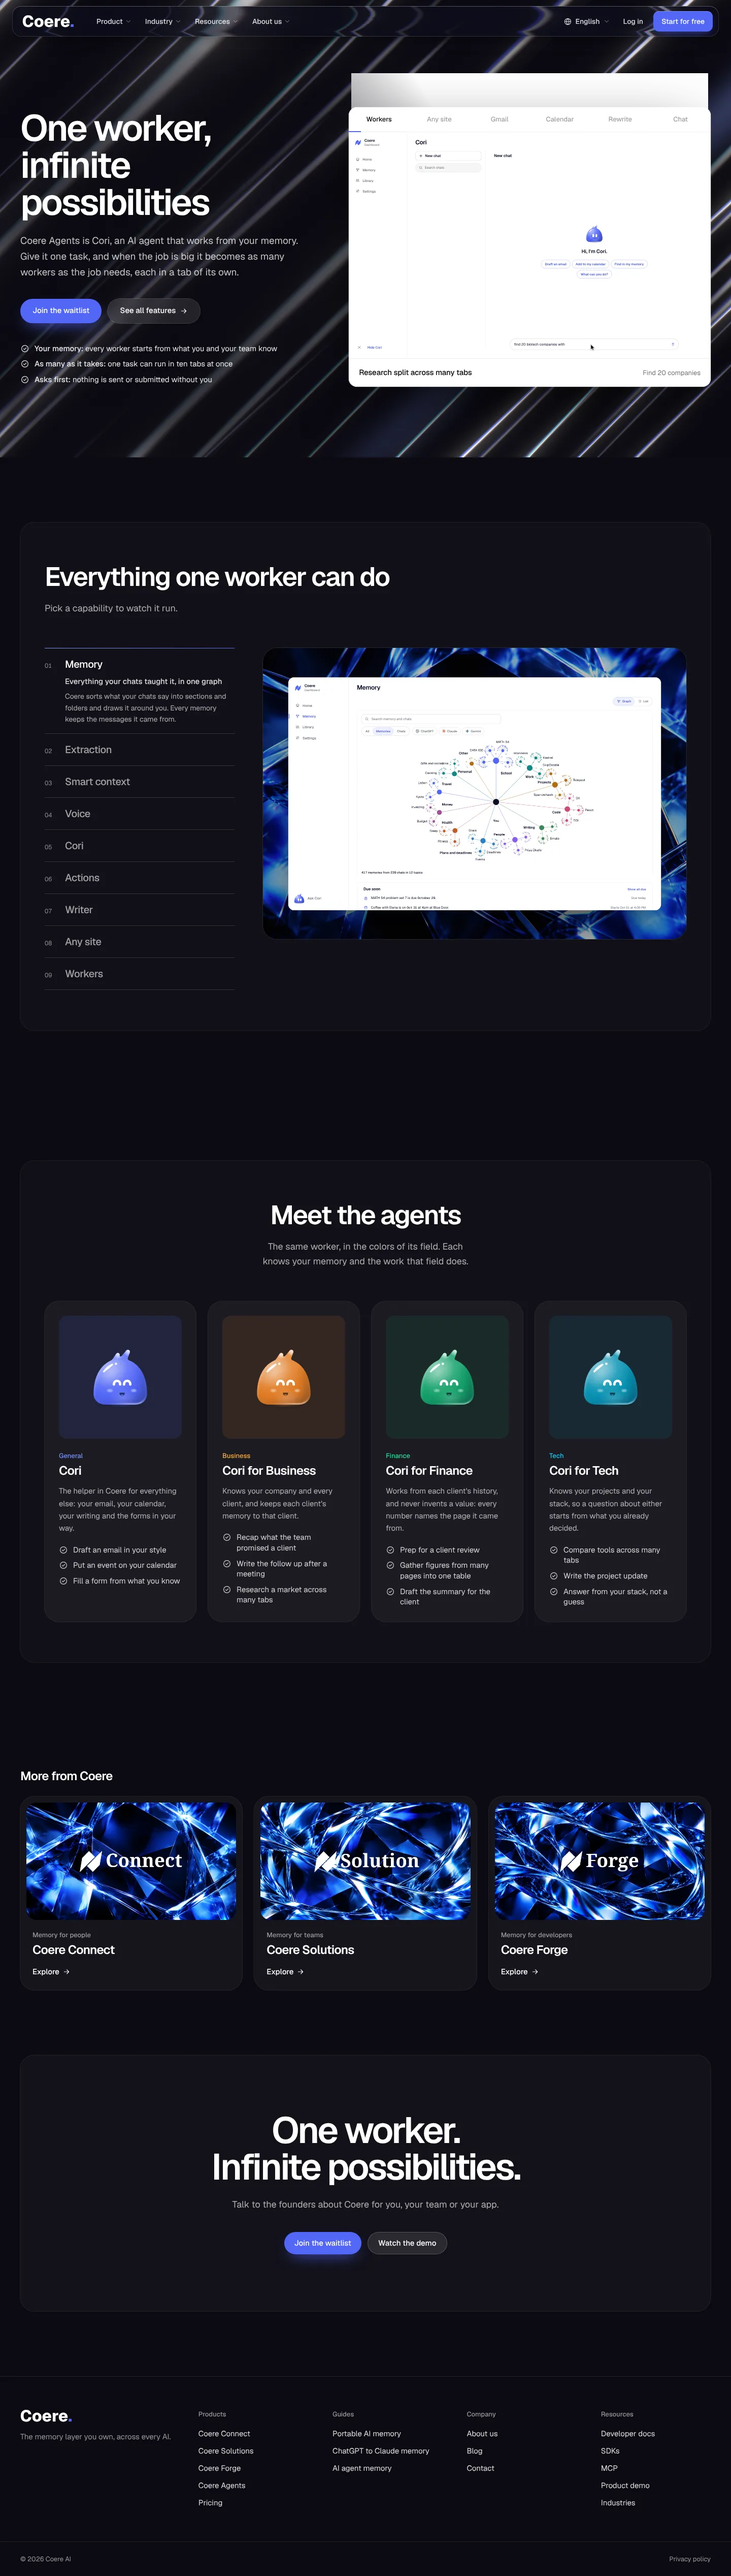
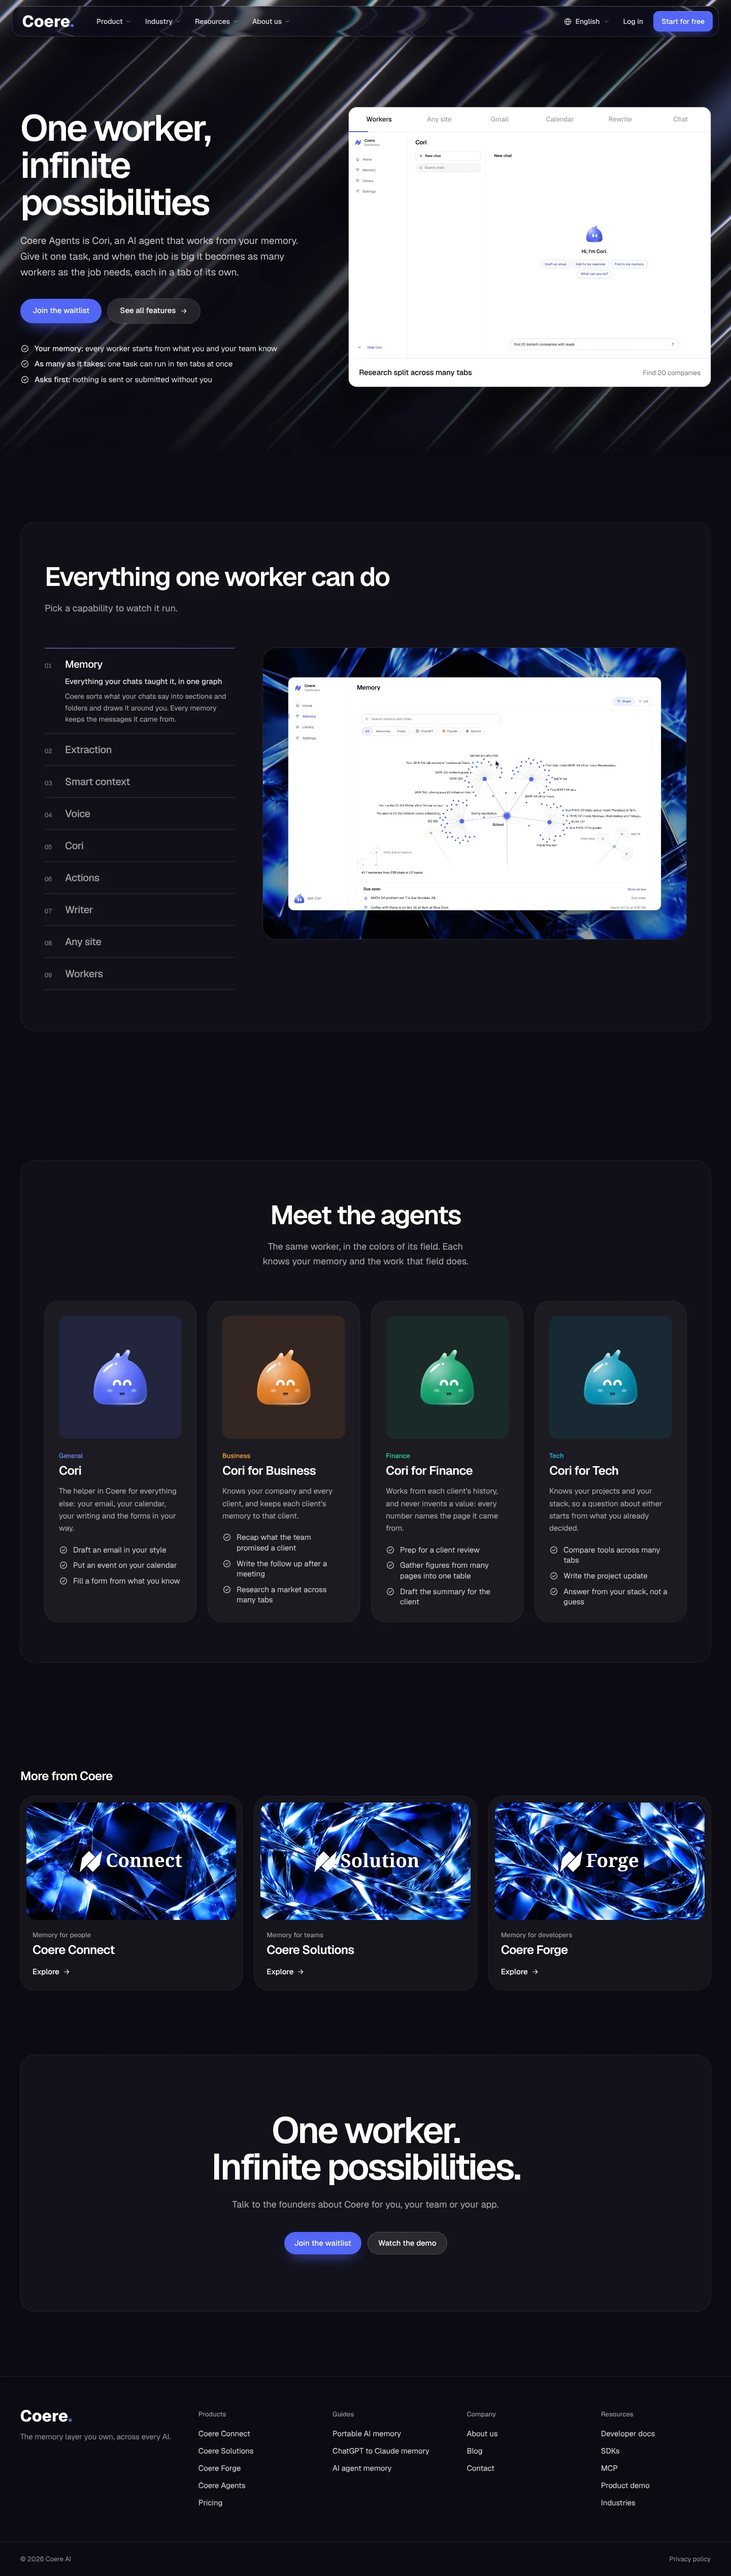
Retake the Agents picture with the live demo in its hero
The hero now plays each part of Coere Agents in a white app window, so the README picture and its caption show that.

Claude-Session: https://claude.ai/code/session_01Ur6uqNCXa3ecJ23BnM9D9o

diff --git a/docs/screenshots/site/README.md b/docs/screenshots/site/README.md
@@ -28,7 +28,7 @@ The whole page, dark from the hero to the footer: [home.webp](home.webp).
 | | |
 |---|---|
 | <img src="product-connect.webp" alt="The Coere Connect page from its hero down: Your memory, across every AI on near black, with flowing bands of Coere blue and white drawn in small dithered square pixels behind the live app, then, dark to the footer, features by tab, the same chat with 97.7% fewer tokens, everything in Coere Connect, why people choose it and the other products" /><br /><sub>Coere Connect, dark to its end like its hero</sub> | <img src="product-solutions.webp" alt="The Coere Solutions page from its hero down: the hero on a dark LED wall of AI logos drawn in small square pixels round the dashboard, with the beam washing over its top edge, then, dark to the footer, how a team shares one memory, the AIs it works with, everything in Coere Solutions and the other products" /><br /><sub>Coere Solutions, dark to its end like its hero</sub> |
-| <img src="product-forge.webp" alt="The Coere Forge page from its hero down: The memory API for your apps and agents on a full field of blue and white ASCII glyphs over near black, with a beam of Coere blue landing on the code, then, dark to the footer, the demo end to end, MCP, everything in Coere Forge and the other products" /><br /><sub>Coere Forge, dark to its end</sub> | <img src="product-agents.webp" alt="The Coere Agents page from its hero down: One worker, infinite possibilities on near black, with diagonal streaks of white light edged in Coere blue flowing behind the app playing Coere Agents live, then, dark to the footer, the capabilities, the agents as dark glass cards and the other products" /><br /><sub>Coere Agents, dark to its end</sub> |
+| <img src="product-forge.webp" alt="The Coere Forge page from its hero down: The memory API for your apps and agents on a full field of blue and white ASCII glyphs over near black, with a beam of Coere blue landing on the code, then, dark to the footer, the demo end to end, MCP, everything in Coere Forge and the other products" /><br /><sub>Coere Forge, dark to its end</sub> | <img src="product-agents.webp" alt="The Coere Agents page from its hero down: One worker, infinite possibilities on near black, with diagonal streaks of white light edged in Coere blue flowing behind a white app window that plays each part of Coere Agents live in turn under a row of tabs, then, dark to the footer, the capabilities, the agents as dark glass cards and the other products" /><br /><sub>Coere Agents, dark to its end</sub> |
 | <img src="phone-product-connect.webp" width="195" alt="The Coere Connect page's first screen at phone width, on its dithered bands of Coere blue and white" /><br /><sub>Coere Connect at 390 wide</sub> | |
 
 ## Pricing
